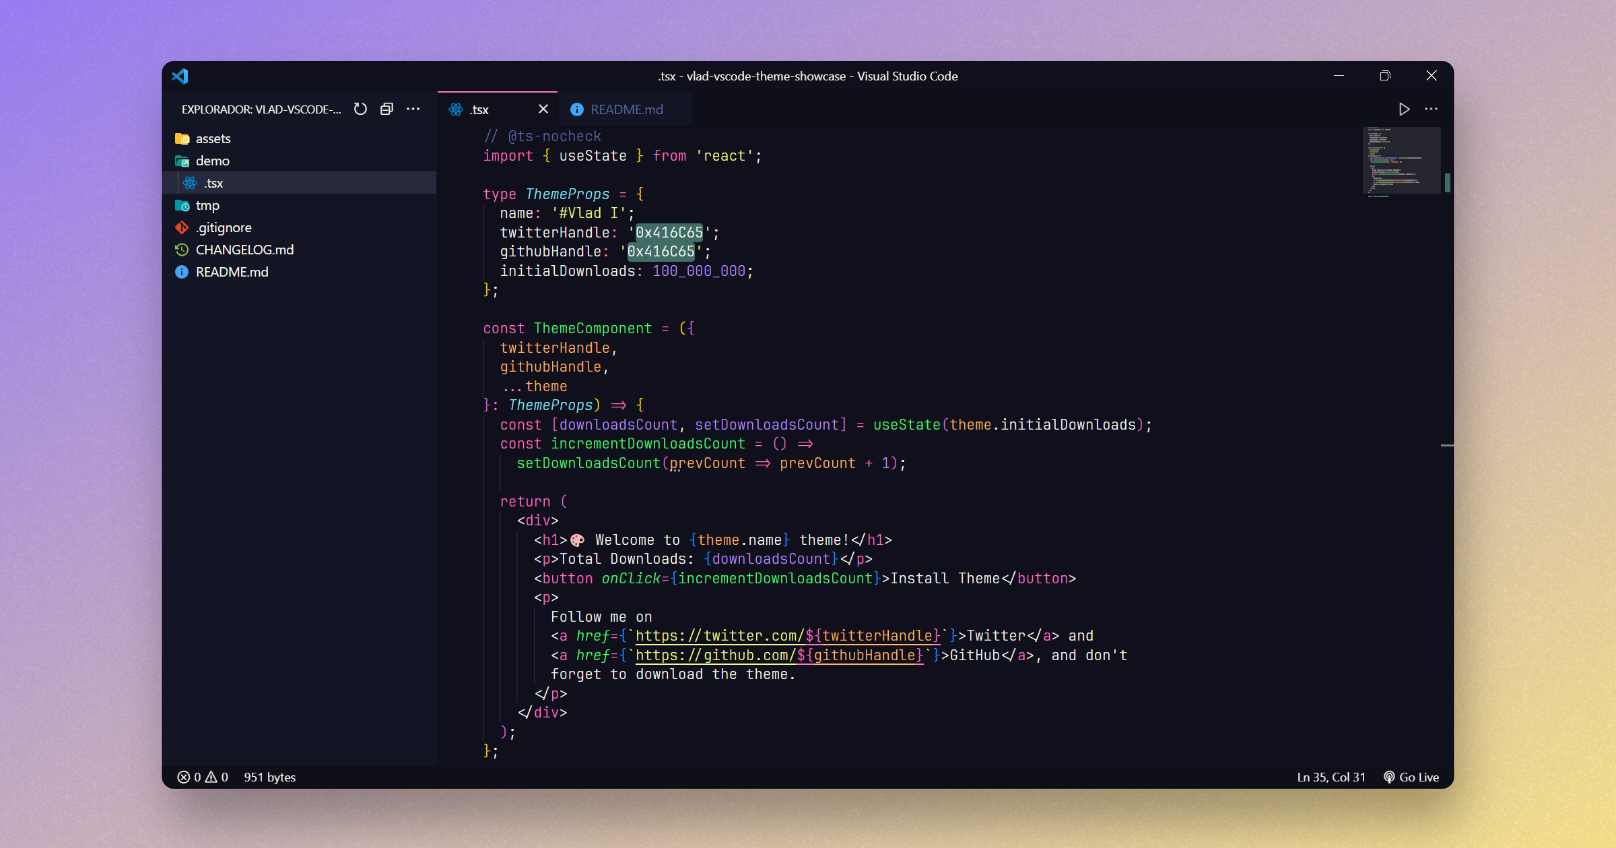
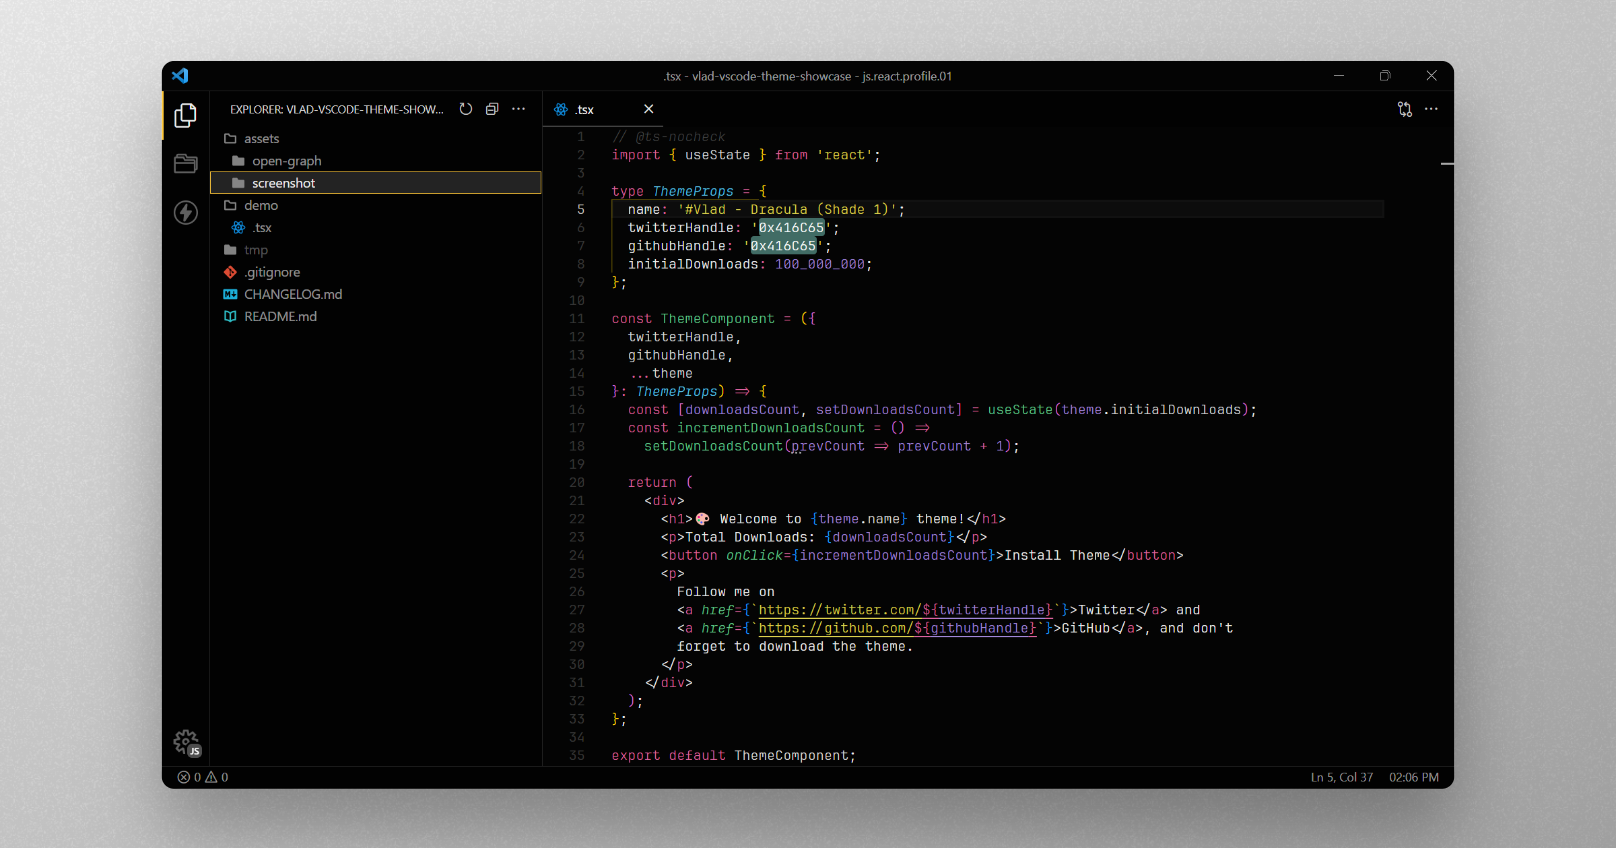
v3.0.0

diff --git a/demo/.tsx b/demo/.tsx
@@ -2,7 +2,7 @@
 import { useState } from 'react';
 
 type ThemeProps = {
-  name: '#Vlad III';
+  name: '#Vlad - Dracula (Shade 1)';
   twitterHandle: '0x416C65';
   githubHandle: '0x416C65';
   initialDownloads: 100_000_000;

diff --git a/README.md b/README.md
@@ -16,10 +16,7 @@ This represents a unique adaptation of Dracula's authentic theme, tweaked to exu
 3. Click **Install**
 4. Open the **Command Palette** with `Ctrl+Shift+P` or `⇧⌘P`
 5. Select **Preferences: Color Theme** and choose one of the #Vlad variants:
-   - [`#Vlad - Titan (Shade 1)`](./assets/screenshot/vlad-titan-shade-1.png)
-   - [`#Vlad - Dracula (Shade 1)`](.ssets/screenshot/vlad-dracula-shade-1.png)
-   - [`#Vlad - Dracula (Shade 2)`](.ssets/screenshot/vlad-dracula-shade-2.png)
-   - [`#Vlad - Dracula (Shade 3)`](.ssets/screenshot/vlad-dracula-shade-3.png)
+   - [`#Vlad - Dracula (Shade 1)`](assets/screenshot/vlad-dracula-shade-1.png)
 6. Enjoy! 🎉 And maybe give a rating? ⭐
 
 ## 📣 Stay in touch

diff --git a/CHANGELOG.md b/CHANGELOG.md
@@ -3,6 +3,27 @@
 All notable changes to this project will be documented in this file.
 The format is based on [Keep a Changelog](https://keepachangelog.com/en/1.0.0/).
 
+## [3.0.0] - 2023-11-20
+
+### Changed
+
+- Removed the original #Vlad theme variations.
+- Renamed the `"Titan"` variation to `"Dracula"`.
+- Reduced the brightness of white-derived colors.
+
+## [2.1.5] - 2023-11-18
+
+### Added
+
+- Added blurring for files listed in `.gitignore`.
+- Added border for the editor group.
+
+### Changed
+
+- Changed warning color.
+- Changed title bar background color.
+- Altered editor widget colors for highlighted words.
+
 ## [2.0.4] - 2023-11-09
 
 ### Added
